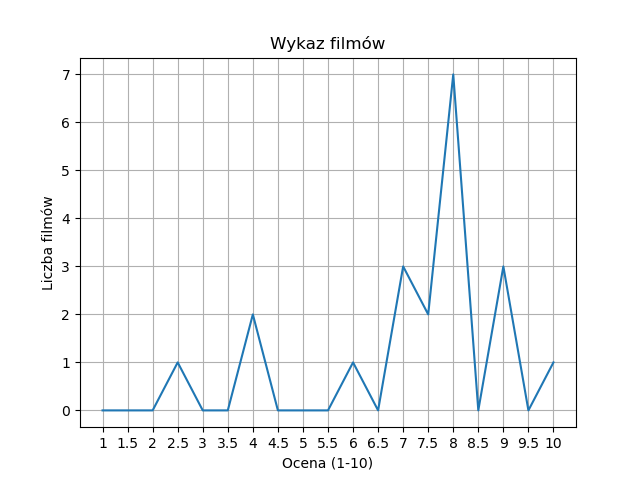
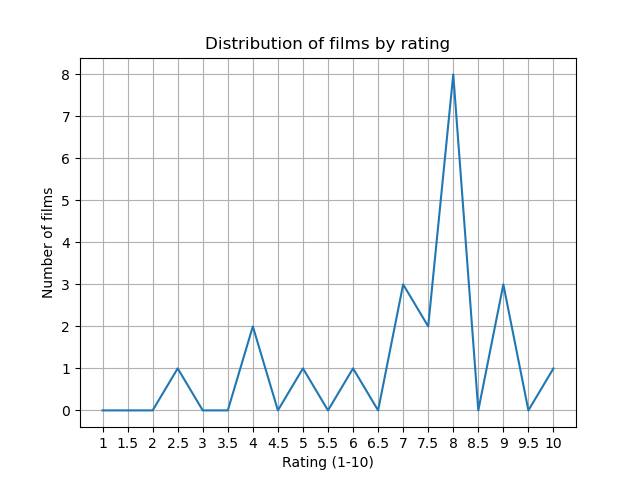
Implemented film addition/removal via internal IO mechanism

diff --git a/filmography.py b/filmography.py
@@ -1,0 +1,151 @@
+import matplotlib.pyplot as plt
+
+films = []
+ratings = {'1': 0, '1.5': 0, '2': 0, '2.5': 0, '3': 0, '3.5': 0, '4': 0, '4.5': 0, '5': 0,
+           '5.5': 0, '6': 0, '6.5': 0, '7': 0, '7.5': 0, '8': 0, '8.5': 0, '9': 0, '9.5': 0, '10': 0}
+
+
+def print_graph():
+
+    for k in ratings.keys():
+        ratings[k] = 0
+
+    for film in films:
+        ratings[film[2].split('/')[0].strip()] += 1
+
+    fig, ax = plt.subplots()
+    ax.plot(list(ratings.keys()), list(ratings.values()))
+
+    ax.set(xlabel="Rating (1-10)", ylabel="Number of films",
+           title="Distribution of films by rating")
+    ax.grid()
+
+    fig.savefig("test.png")
+    plt.show()
+
+
+def read_data():
+    with open("rating.txt", "r", encoding="utf8") as file:
+        data = file.read().splitlines()
+
+    for line in data:
+        films.append(line.split('-'))
+
+
+def print_films():
+    for film in films:
+        print(film[0] + ", year:" + film[1] + ", rating:" + film[2], end='')
+        if len(film) > 3:
+            print(", comment: " + film[3])
+            continue
+        print()
+
+
+def search(input, flag):
+    index = 0
+    if flag == 2:
+        index = 1
+    elif flag == 3:
+        index = 2
+    for film in films:
+        if film[index].strip().lower() == input.strip().lower() and index != 0:
+            print(film[0] + ", year:" + film[1] +
+                  ", rating:" + film[2], end='')
+            if len(film) > 3:
+                print(", comment: " + film[3])
+                continue
+            print()
+        elif film[index].strip().lower().startswith(input.strip().lower()):
+            print(film[0] + ", year:" + film[1] +
+                  ", rating:" + film[2], end='')
+            if len(film) > 3:
+                print(", comment: " + film[3])
+                continue
+            print()
+
+
+def add_film():
+    name = input("Name of the film: ")
+    year = input("Year of production: ")
+    rating = input("Rating (out of 10): ")
+    comment = input("Comment (optional): ").strip()
+    rating = rating.replace(",", ".")
+    rating += "/10"
+    line = name + " - " + year + " - " + rating
+    if len(comment) >= 1:
+        line += " - " + comment
+    films.append(line.split("-"))
+    with open("rating.txt", "a", encoding="utf8") as file:
+        file.write("\n" + line)
+
+
+def remove_film(name):
+    choices = []
+    for (index, film) in enumerate(films):
+        if film[0].strip().lower().startswith(name):
+            choices.append(index)
+            print(str(index + 1) + ". ", end='')
+            print(film[0] + ", year:" + film[1] +
+                  ", rating:" + film[2], end='')
+            if len(film) > 3:
+                print(", comment: " + film[3])
+                continue
+            print()
+    deleted = input("What film would you like to delete?: ")
+    deleted = int(deleted.strip()) - 1
+    if deleted in choices:
+        films.pop(deleted)
+        with open("rating.txt", "r+", encoding="utf8") as file:
+            d = file.readlines()
+            file.seek(0)
+            for i in d:
+                if deleted != 0:
+                    file.write(i)
+                deleted -= 1
+            file.truncate()
+    last_line = ""
+    with open("rating.txt", "r", encoding="utf8") as file:
+        for line in file:
+            if line:
+                last_line = line
+    if last_line.endswith("\n"):
+        with open("rating.txt", "rb+") as file:
+            file.seek(0, 2)
+            size = file.tell()
+            file.truncate(size - 2)
+
+
+if __name__ == "__main__":
+    read_data()
+    while True:
+        print("1. Print all the films")
+        print("2. Show graph of ratings")
+        print("3. Search by name")
+        print("4. Search by year")
+        print("5. Search by rating")
+        print("6. Add a new film")
+        print("7. Delete the film")
+        print("9. Exit")
+        choice = int(input("").strip())
+        if choice == 1:
+            print_films()
+        elif choice == 2:
+            print_graph()
+        elif choice == 3:
+            temp = input("Name of the film: ")
+            search(temp, 1)
+        elif choice == 4:
+            temp = input("Year of production: ")
+            search(temp, 2)
+        elif choice == 5:
+            temp = input("Rating (out of 10): ")
+            temp = temp.replace(",", ".")
+            temp += "/10"
+            search(temp, 3)
+        elif choice == 6:
+            add_film()
+        elif choice == 7:
+            name = input("Name of the film to remove: ").strip().lower()
+            remove_film(name)
+        elif choice == 9:
+            break
